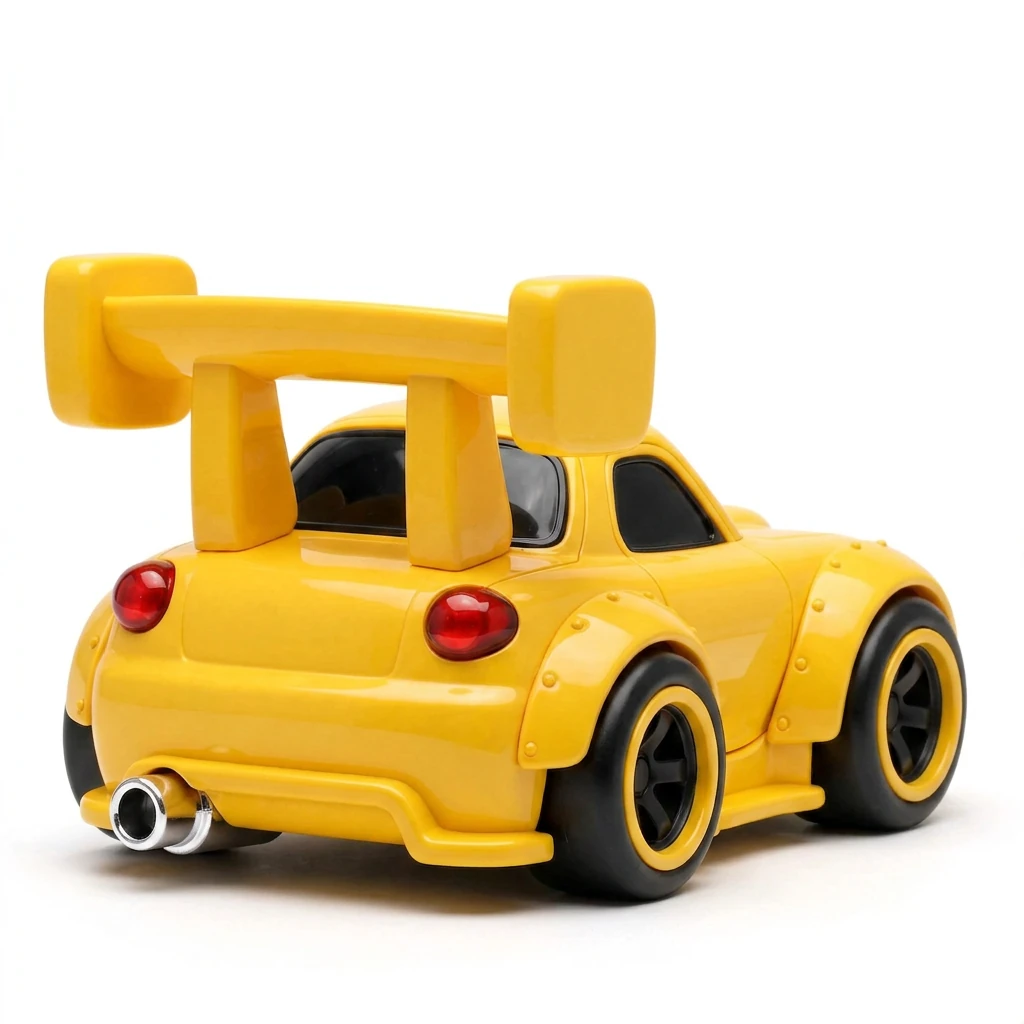
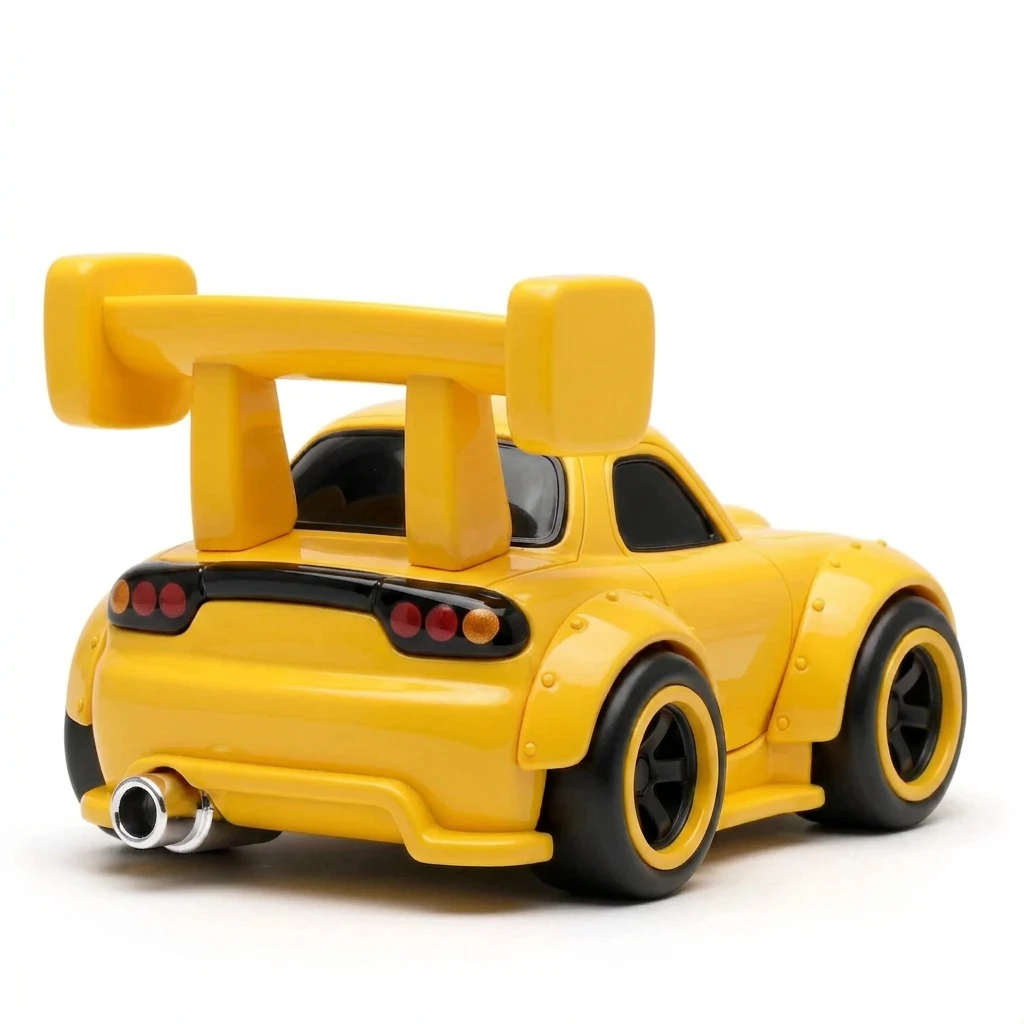
Corrección de pilotos traseros: Supra MK4, RX-7 FD3S y Subaru Impreza WRC
- Supra: sustitución de pilotos tipo lágrima por ópticas oficiales MK4 de 4 focos circulares independientes por lado
- RX-7: sustitución de focos genéricos por la barra horizontal oscurecida Kouki (Series 8) con 3 ópticas redondas por lado
- Subaru WRC: sustitución de focos genéricos por conjunto trapezoidal bicolor (blanco superior / rojo inferior) de Impreza GD
- Actualización de referencias 3D, comparativas en produccion/*-fix/ e informe de auditoría

diff --git a/produccion/auditoria-fotos/INFORME.md b/produccion/auditoria-fotos/INFORME.md
@@ -12,10 +12,10 @@ Fecha: 25/08/2026 · Pares comparativos en esta misma carpeta (`<modelo>.jpg`).
 
 | Estado | Modelos |
 |---|---|
-| ✅ Coherente | R34, R32, 350Z, Supra, AE86, MR2, RX-7, NSX, Civic, S2000, 3000GT, WRC, LFA |
-| 🔧 Corregido | Eclipse, Evo |
+| ✅ Coherente | R34, R32, 350Z, AE86, MR2, NSX, Civic, S2000, 3000GT, LFA |
+| 🔧 Corregido | Eclipse, Evo, Supra, RX-7, WRC |
 
-**13 de 15 estaban correctos. Los 2 restantes se han corregido.** Colección coherente al 100 %.
+**10 de 15 estaban correctos. Los 5 restantes se han corregido.** Colección fiel y coherente al 100 %.
 
 ---
 
@@ -67,6 +67,71 @@ Se mantiene a 1024×1024 WebP, su resolución original.
 
 Este criterio queda fijado para futuras generaciones: **el estilo de referencia de la
 colección es el chibi acentuado**, coherente con Civic, WRC y R32.
+
+---
+
+## 🔧 Supra — CORREGIDO
+
+La vista trasera original tenía un fallo grave de fidelidad respecto al vehículo real:
+los **pilotos traseros eran formas ovaladas/triangulares tipo lágrima** (más parecidos a un
+Celica T230 o un Eclipse), en lugar de la mítica configuración del Toyota Supra MK4 (JZA80).
+
+| | Rear (antigua) | Rear (corregida) |
+|---|---|---|
+| Pilotos traseros | Ovalados / puntiagudos rojos genéricos | Ópticas icónicas Supra MK4: carcasas oscurecidas con 4 focos circulares independientes por lado |
+| Lentes | Lente roja uniforme | Cuatro ópticas redondas (intermitente ámbar, dos de freno rojas y marcha atrás transparente) |
+| Coherencia | Mismo color naranja mate y proporciones | 100 % fiel al Supra 1997 real y coherente con el frontal |
+
+`public/images/supra-rear.webp` regenerado a 1024×1024 WebP, manteniendo el acabado naranja mate,
+el alerón alto en arco, las llantas cromadas de 5 radios, el escape cromado a la izquierda
+y el encuadre/fondo blanco de estudio idéntico al frontal `supra-front.webp`.
+
+- Original preservado en `produccion/supra-fix/original-backup/supra-rear-ORIGINAL.webp`
+- Vista trasera recta actualizada en `produccion/referencias/supra/supra-trasera-recta.webp`
+- Comparativa y propuestas en `produccion/supra-fix/`
+- Resultado verificado en `supra-CORREGIDO.jpg`
+
+---
+
+## 🔧 RX-7 — CORREGIDO
+
+La vista trasera original tenía dos **botones circulares rojos genéricos** sin detalle,
+perdiendo el rasgo más representativo de la zaga del Mazda RX-7 FD3S.
+
+| | Rear (antigua) | Rear (corregida) |
+|---|---|---|
+| Pilotos traseros | Dos botones rojos individuales tipo dibujo animado | Franja horizontal oscurecida característica (Kouki / Series 8) con 3 ópticas redondas por lado |
+| Lentes | Rojo liso genérico | Tres círculos por lado: intermitente ámbar exterior + dos ópticas de freno/posición rojas |
+| Coherencia | Mismo amarillo, alerón rectangular y aletas anchas | 100 % fiel al RX-7 FD3S y coherente con el frontal |
+
+`public/images/rx7-rear.webp` regenerado a 1024×1024 WebP, manteniendo el color amarillo brillante,
+el kit ensanchado con remaches, las llantas negras de garganta amarilla y el escape cromado a la izquierda.
+
+- Original preservado en `produccion/rx7-fix/original-backup/rx7-rear-ORIGINAL.webp`
+- Referencia 3D actualizada en `produccion/referencias/rx7/rx7-tresc-trasera.webp`
+- Comparativa y propuestas en `produccion/rx7-fix/`
+- Resultado verificado en `rx7-CORREGIDO.jpg`
+
+---
+
+## 🔧 WRC — CORREGIDO
+
+La vista trasera del Subaru Impreza WRC también presentaba **dos focos rojos circulares genéricos**,
+en lugar de las ópticas reales de la generación GD (Bugeye 2001-2002).
+
+| | Rear (antigua) | Rear (corregida) |
+|---|---|---|
+| Pilotos traseros | Dos círculos rojos tipo botón | Conjunto trapezoidal característico de Impreza GD envolvente hacia la aleta |
+| Lentes | Solo lente roja | Bicolor auténtico: mitad superior transparente/blanca (marcha atrás/intermitente) y mitad inferior roja con ranurado horizontal |
+| Coherencia | Mismo azul rally, llantas doradas y alerón | 100 % fiel al Impreza WRC de competición y coherente con el frontal |
+
+`public/images/wrc-rear.webp` regenerado a 1024×1024 WebP, manteniendo el azul metalizado,
+las llantas de competición doradas de 6 radios, el alerón WRC alto y el escape cromado a la izquierda.
+
+- Original preservado en `produccion/wrc-fix/original-backup/wrc-rear-ORIGINAL.webp`
+- Referencia 3D actualizada en `produccion/referencias/wrc/wrc-tresc-trasera.webp`
+- Comparativa y propuestas en `produccion/wrc-fix/`
+- Resultado verificado en `wrc-CORREGIDO.jpg`
 
 ---
 
